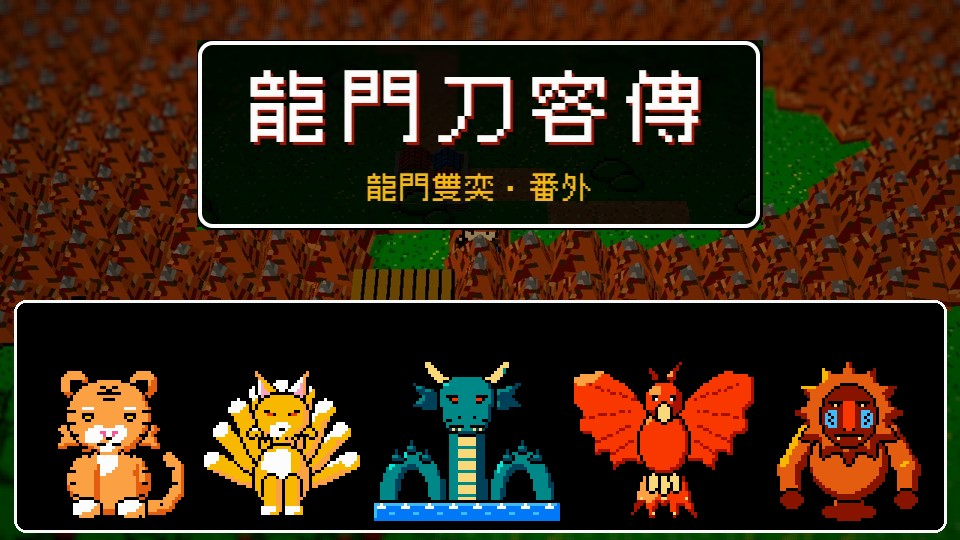
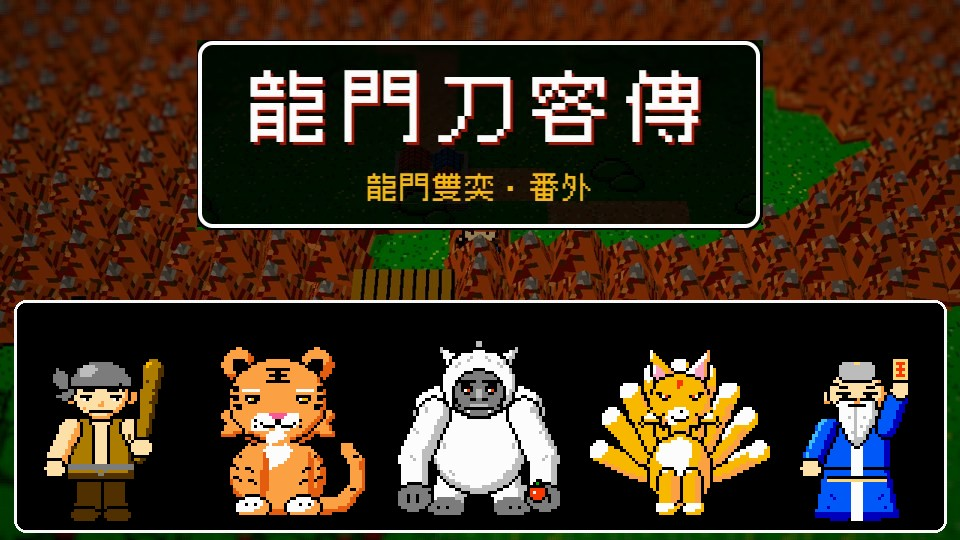
Refined foes and beasts, pixel exact battle scaling, new thumb

Changed region(s): [[0.0312, 0.6222, 0.9688, 0.9778]]

diff --git a/js/enemy_art.js b/js/enemy_art.js
@@ -1,66 +1,66 @@
 // generated by tools/gallery.py from the Character Gallery - rects into assets/enemies.png (1x pixels).
 // f = the two field frames (frame 2 is w pixels right of frame 1).
 export const ENEMY_ART = {
-  bx_ape: { x: 0, y: 0, w: 56, h: 56, f: [57, 0, 16, 16] },
-  bx_tiger: { x: 90, y: 0, w: 56, h: 56, f: [147, 0, 16, 16] },
-  bx_lion: { x: 180, y: 0, w: 56, h: 56, f: [237, 0, 16, 16] },
-  bx_jiangshi: { x: 270, y: 0, w: 56, h: 56, f: [327, 0, 16, 24] },
-  bx_shanxiao: { x: 360, y: 0, w: 56, h: 56, f: [417, 0, 16, 16] },
-  bx_fox: { x: 450, y: 0, w: 56, h: 56, f: [0, 57, 16, 16] },
-  bx_jiao: { x: 33, y: 57, w: 64, h: 56, f: [98, 57, 16, 16] },
-  bx_crow: { x: 131, y: 57, w: 64, h: 56, f: [196, 57, 16, 16] },
-  bx_toad: { x: 229, y: 57, w: 64, h: 48, f: [294, 57, 16, 16] },
-  e_greywolf: { x: 327, y: 57, w: 48, h: 40, f: [376, 57, 16, 16] },
-  e_wildboar: { x: 409, y: 57, w: 48, h: 40, f: [458, 57, 16, 16] },
-  e_bambooviper: { x: 0, y: 114, w: 44, h: 44, f: [45, 114, 16, 16] },
-  e_cavebat: { x: 78, y: 114, w: 48, h: 40, f: [127, 114, 16, 16] },
-  e_rivercrab: { x: 160, y: 114, w: 48, h: 40, f: [209, 114, 16, 16] },
-  e_mountainmonkey: { x: 242, y: 114, w: 40, h: 44, f: [283, 114, 16, 16] },
-  e_wisp: { x: 316, y: 114, w: 40, h: 40, f: [357, 114, 16, 16] },
-  e_dummy: { x: 390, y: 114, w: 40, h: 48, f: [431, 114, 16, 16] },
-  e_lackey: { x: 464, y: 114, w: 40, h: 48, f: [0, 163, 16, 16] },
-  e_redsnake: { x: 33, y: 163, w: 44, h: 44, f: [78, 163, 16, 16] },
-  e_tigerhornet: { x: 111, y: 163, w: 44, h: 40, f: [156, 163, 16, 16] },
-  e_centipede: { x: 189, y: 163, w: 44, h: 44, f: [234, 163, 16, 16] },
-  e_sandscorpion: { x: 267, y: 163, w: 48, h: 40, f: [316, 163, 16, 16] },
-  e_treesprite: { x: 349, y: 163, w: 40, h: 48, f: [390, 163, 16, 16] },
-  e_toadstool: { x: 423, y: 163, w: 40, h: 44, f: [464, 163, 16, 16] },
-  e_littlejiangshi: { x: 0, y: 212, w: 40, h: 48, f: [41, 212, 16, 16] },
-  e_windsprite: { x: 74, y: 212, w: 40, h: 40, f: [115, 212, 16, 16] },
-  e_stonetoad: { x: 148, y: 212, w: 48, h: 40, f: [197, 212, 16, 16] },
-  e_cudgeler: { x: 230, y: 212, w: 40, h: 48, f: [271, 212, 16, 16] },
-  e_archer: { x: 304, y: 212, w: 40, h: 48, f: [345, 212, 16, 16] },
-  e_roguemonk: { x: 378, y: 212, w: 40, h: 48, f: [419, 212, 16, 16] },
-  e_bloodwolf: { x: 452, y: 212, w: 48, h: 40, f: [0, 261, 16, 16] },
-  e_ironboar: { x: 33, y: 261, w: 48, h: 40, f: [82, 261, 16, 16] },
-  e_bloodbat: { x: 115, y: 261, w: 48, h: 40, f: [164, 261, 16, 16] },
-  e_goldmonkey: { x: 197, y: 261, w: 40, h: 44, f: [238, 261, 16, 16] },
-  e_papereffigy: { x: 271, y: 261, w: 40, h: 48, f: [312, 261, 16, 16] },
-  e_inkspirit: { x: 345, y: 261, w: 40, h: 40, f: [386, 261, 16, 16] },
-  e_skeleton: { x: 419, y: 261, w: 40, h: 48, f: [460, 261, 16, 16] },
-  e_drowned: { x: 0, y: 310, w: 40, h: 48, f: [41, 310, 16, 16] },
-  e_bronzeman: { x: 74, y: 310, w: 40, h: 48, f: [115, 310, 16, 16] },
-  e_assassin: { x: 148, y: 310, w: 40, h: 48, f: [189, 310, 16, 16] },
-  e_daoist: { x: 222, y: 310, w: 40, h: 48, f: [263, 310, 16, 16] },
-  e_ironcrab: { x: 296, y: 310, w: 48, h: 40, f: [345, 310, 16, 16] },
-  e_ghosthornet: { x: 378, y: 310, w: 44, h: 40, f: [423, 310, 16, 16] },
-  e_goldcentipede: { x: 456, y: 310, w: 44, h: 44, f: [0, 359, 16, 16] },
-  e_netherflame: { x: 33, y: 359, w: 40, h: 40, f: [74, 359, 16, 16] },
-  e_deadwood: { x: 107, y: 359, w: 40, h: 48, f: [148, 359, 16, 16] },
-  e_thundersprite: { x: 181, y: 359, w: 40, h: 40, f: [222, 359, 16, 16] },
-  e_irondummy: { x: 255, y: 359, w: 40, h: 48, f: [296, 359, 16, 16] },
-  e_bloodthug: { x: 329, y: 359, w: 40, h: 48, f: [370, 359, 16, 16] },
-  e_ironmonk: { x: 403, y: 359, w: 40, h: 48, f: [444, 359, 16, 16] },
-  e_frostwolf: { x: 0, y: 408, w: 48, h: 40, f: [49, 408, 16, 16] },
-  e_inkscorpion: { x: 82, y: 408, w: 48, h: 40, f: [131, 408, 16, 16] },
-  e_blackbone: { x: 164, y: 408, w: 40, h: 48, f: [205, 408, 16, 16] },
-  e_coldpool: { x: 238, y: 408, w: 40, h: 48, f: [279, 408, 16, 16] },
-  e_bronzejiangshi: { x: 312, y: 408, w: 40, h: 48, f: [353, 408, 16, 16] },
-  e_vajraguardian: { x: 386, y: 408, w: 40, h: 48, f: [427, 408, 16, 16] },
-  e_netherarcher: { x: 460, y: 408, w: 40, h: 48, f: [0, 457, 16, 16] },
-  e_netherassassin: { x: 33, y: 457, w: 40, h: 48, f: [74, 457, 16, 16] },
-  e_blackdaoist: { x: 107, y: 457, w: 40, h: 48, f: [148, 457, 16, 16] },
-  b_luohan: { x: 181, y: 457, w: 32, h: 48 },
+  bx_ape: { x: 0, y: 0, w: 64, h: 64, f: [65, 0, 16, 16] },
+  bx_tiger: { x: 98, y: 0, w: 64, h: 64, f: [163, 0, 16, 16] },
+  bx_lion: { x: 196, y: 0, w: 64, h: 64, f: [261, 0, 16, 16] },
+  bx_jiangshi: { x: 294, y: 0, w: 64, h: 64, f: [359, 0, 16, 24] },
+  bx_shanxiao: { x: 392, y: 0, w: 64, h: 64, f: [457, 0, 16, 16] },
+  bx_fox: { x: 0, y: 65, w: 64, h: 64, f: [65, 65, 16, 16] },
+  bx_jiao: { x: 98, y: 65, w: 64, h: 56, f: [163, 65, 16, 16] },
+  bx_crow: { x: 196, y: 65, w: 64, h: 56, f: [261, 65, 16, 16] },
+  bx_toad: { x: 294, y: 65, w: 64, h: 56, f: [359, 65, 16, 16] },
+  e_greywolf: { x: 392, y: 65, w: 48, h: 48, f: [441, 65, 16, 16] },
+  e_wildboar: { x: 0, y: 130, w: 48, h: 48, f: [49, 130, 16, 16] },
+  e_bambooviper: { x: 82, y: 130, w: 48, h: 48, f: [131, 130, 16, 16] },
+  e_cavebat: { x: 164, y: 130, w: 48, h: 48, f: [213, 130, 16, 16] },
+  e_rivercrab: { x: 246, y: 130, w: 48, h: 48, f: [295, 130, 16, 16] },
+  e_mountainmonkey: { x: 328, y: 130, w: 48, h: 48, f: [377, 130, 16, 16] },
+  e_wisp: { x: 410, y: 130, w: 48, h: 48, f: [459, 130, 16, 16] },
+  e_dummy: { x: 0, y: 179, w: 48, h: 56, f: [49, 179, 16, 16] },
+  e_lackey: { x: 82, y: 179, w: 48, h: 56, f: [131, 179, 16, 16] },
+  e_redsnake: { x: 164, y: 179, w: 48, h: 48, f: [213, 179, 16, 16] },
+  e_tigerhornet: { x: 246, y: 179, w: 48, h: 48, f: [295, 179, 16, 16] },
+  e_centipede: { x: 328, y: 179, w: 48, h: 48, f: [377, 179, 16, 16] },
+  e_sandscorpion: { x: 410, y: 179, w: 48, h: 48, f: [459, 179, 16, 16] },
+  e_treesprite: { x: 0, y: 236, w: 48, h: 56, f: [49, 236, 16, 16] },
+  e_toadstool: { x: 82, y: 236, w: 48, h: 48, f: [131, 236, 16, 16] },
+  e_littlejiangshi: { x: 164, y: 236, w: 48, h: 56, f: [213, 236, 16, 16] },
+  e_windsprite: { x: 246, y: 236, w: 48, h: 48, f: [295, 236, 16, 16] },
+  e_stonetoad: { x: 328, y: 236, w: 48, h: 48, f: [377, 236, 16, 16] },
+  e_cudgeler: { x: 410, y: 236, w: 48, h: 56, f: [459, 236, 16, 16] },
+  e_archer: { x: 0, y: 293, w: 48, h: 56, f: [49, 293, 16, 16] },
+  e_roguemonk: { x: 82, y: 293, w: 48, h: 56, f: [131, 293, 16, 16] },
+  e_bloodwolf: { x: 164, y: 293, w: 48, h: 48, f: [213, 293, 16, 16] },
+  e_ironboar: { x: 246, y: 293, w: 48, h: 48, f: [295, 293, 16, 16] },
+  e_bloodbat: { x: 328, y: 293, w: 48, h: 48, f: [377, 293, 16, 16] },
+  e_goldmonkey: { x: 410, y: 293, w: 48, h: 48, f: [459, 293, 16, 16] },
+  e_papereffigy: { x: 0, y: 350, w: 48, h: 56, f: [49, 350, 16, 16] },
+  e_inkspirit: { x: 82, y: 350, w: 48, h: 48, f: [131, 350, 16, 16] },
+  e_skeleton: { x: 164, y: 350, w: 48, h: 56, f: [213, 350, 16, 16] },
+  e_drowned: { x: 246, y: 350, w: 48, h: 56, f: [295, 350, 16, 16] },
+  e_bronzeman: { x: 328, y: 350, w: 48, h: 56, f: [377, 350, 16, 16] },
+  e_assassin: { x: 410, y: 350, w: 48, h: 56, f: [459, 350, 16, 16] },
+  e_daoist: { x: 0, y: 407, w: 48, h: 56, f: [49, 407, 16, 16] },
+  e_ironcrab: { x: 82, y: 407, w: 48, h: 48, f: [131, 407, 16, 16] },
+  e_ghosthornet: { x: 164, y: 407, w: 48, h: 48, f: [213, 407, 16, 16] },
+  e_goldcentipede: { x: 246, y: 407, w: 48, h: 48, f: [295, 407, 16, 16] },
+  e_netherflame: { x: 328, y: 407, w: 48, h: 48, f: [377, 407, 16, 16] },
+  e_deadwood: { x: 410, y: 407, w: 48, h: 56, f: [459, 407, 16, 16] },
+  e_thundersprite: { x: 0, y: 464, w: 48, h: 48, f: [49, 464, 16, 16] },
+  e_irondummy: { x: 82, y: 464, w: 48, h: 56, f: [131, 464, 16, 16] },
+  e_bloodthug: { x: 164, y: 464, w: 48, h: 56, f: [213, 464, 16, 16] },
+  e_ironmonk: { x: 246, y: 464, w: 48, h: 56, f: [295, 464, 16, 16] },
+  e_frostwolf: { x: 328, y: 464, w: 48, h: 48, f: [377, 464, 16, 16] },
+  e_inkscorpion: { x: 410, y: 464, w: 48, h: 48, f: [459, 464, 16, 16] },
+  e_blackbone: { x: 0, y: 521, w: 48, h: 56, f: [49, 521, 16, 16] },
+  e_coldpool: { x: 82, y: 521, w: 48, h: 56, f: [131, 521, 16, 16] },
+  e_bronzejiangshi: { x: 164, y: 521, w: 48, h: 56, f: [213, 521, 16, 16] },
+  e_vajraguardian: { x: 246, y: 521, w: 48, h: 56, f: [295, 521, 16, 16] },
+  e_netherarcher: { x: 328, y: 521, w: 48, h: 56, f: [377, 521, 16, 16] },
+  e_netherassassin: { x: 410, y: 521, w: 48, h: 56, f: [459, 521, 16, 16] },
+  e_blackdaoist: { x: 0, y: 578, w: 48, h: 56, f: [49, 578, 16, 16] },
+  b_luohan: { x: 82, y: 578, w: 32, h: 48 },
 };
 // names, bios and habitats from C:\CharacterGallery\chars\index.json (shown in the bestiary)
 export const ENEMY_INFO = {

diff --git a/js/battle.js b/js/battle.js
@@ -1,16 +1,16 @@
 // Front-view one-on-one battles in pure 8-bit style. Rounds: the hero picks a command, then hero and foe act in
 // order of agility (with a little luck). Everything the foe does goes through the same rules as the hero.
-import { ENEMIES, SKILLS, ITEMS, ART_OF } from './data.js?v=5';
-import { ENEMY_ART } from './enemy_art.js?v=5';
-import { CAST } from './people_art.js?v=5';
-import * as R from './rules.js?v=5';
-import { t, STR } from './ui.js?v=5';
-import { hex } from './tiles.js?v=5';
+import { ENEMIES, SKILLS, ITEMS, ART_OF } from './data.js?v=6';
+import { ENEMY_ART } from './enemy_art.js?v=6';
+import { CAST } from './people_art.js?v=6';
+import * as R from './rules.js?v=6';
+import { t, STR } from './ui.js?v=6';
+import { hex } from './tiles.js?v=6';
 
 const sleep = (ms) => new Promise((r) => setTimeout(r, ms));
 const imgs = {};
 function img(src) { if (!imgs[src]) { imgs[src] = new Image(); imgs[src].src = src; } return imgs[src]; }
-export function preloadBattleArt() { img('assets/enemies.png?v=5'); for (const c of Object.values(CAST)) img(c.portrait); }
+export function preloadBattleArt() { img('assets/enemies.png?v=6'); for (const c of Object.values(CAST)) img(c.portrait); }
 
 const SCENES = {   // backdrop strip colours (NES indexes): sky, far, near
   grass: [0x21, 0x1A, 0x0A], forest: [0x0A, 0x0B, 0x1A], hill: [0x21, 0x19, 0x09], sand: [0x31, 0x27, 0x17], swamp: [0x0C, 0x0B, 0x04],
@@ -30,7 +30,7 @@ export async function battle(G, foeId, opts = {}) {
   // ---------------------------------------------------------------- the screen
   const root = document.getElementById('battle'); root.innerHTML = ''; root.classList.remove('hidden');
   const el = (tag, cls, p = root) => { const e = document.createElement(tag); e.className = cls; p.appendChild(e); return e; };
-  const stage = el('div', 'win bstage'); const cv = el('canvas', 'bcanvas', stage); cv.width = 160; cv.height = 120; const cx = cv.getContext('2d'); cx.imageSmoothingEnabled = false;
+  const stage = el('div', 'win bstage'); const cv = el('canvas', 'bcanvas', stage); cv.width = 480; cv.height = 360; const cx = cv.getContext('2d'); cx.setTransform(3, 0, 0, 3, 0, 0); cx.imageSmoothingEnabled = false;   // drawn at 160x120, stored at 3x so pictures can use whole device pixels
   const stat = el('div', 'win bstat'); const log = el('div', 'win blog'); const lines = [];
   const drawStat = () => { const s = R.stat(h); stat.innerHTML = `<div class="bname">${t(['奕叡', 'Yi Rui'])}${h.poison ? ' <span class="psn">' + t(['毒', 'PSN']) + '</span>' : ''}</div><div>${t('lv')} ${h.lv}</div><div class="${h.hp <= s.maxHp / 4 ? 'low' : ''}">${t('hp')} ${h.hp}/${s.maxHp}</div><div>${t('mp')} ${h.mp}/${s.maxMp}</div>`; stat.classList.toggle('danger', h.hp <= s.maxHp / 4); };
   const say = async (zh, en, ms = 420) => { if (G.ui.driver && G.ui.driver.onLog) G.ui.driver.onLog(zh); lines.push(t([zh, en])); while (lines.length > 4) lines.shift(); log.innerHTML = lines.map((l) => `<div>${l}</div>`).join(''); await wait(ms); };
@@ -40,8 +40,10 @@ export async function battle(G, foeId, opts = {}) {
   const scene = SCENES[opts.scene] || SCENES.grass;
   let art = null, src = null;
   if (E.por) { src = img(CAST[E.por].portrait); art = { x: 0, y: 0, w: 48, h: 56, por: 1 }; }
-  else { src = img('assets/enemies.png?v=5'); art = ENEMY_ART[ART_OF(foeId)]; }
-  const scale = art.por ? 2 : (E.big ? 2.4 : 2);
+  else { src = img('assets/enemies.png?v=6'); art = ENEMY_ART[ART_OF(foeId)]; }
+  // whole device pixels per art pixel (k/3 on the 160x120 stage); bigger pictures step down so they always fit
+  const k = art.por ? 6 : Math.max(3, Math.min(E.big ? 7 : 6, Math.floor(348 / art.h), Math.floor(468 / art.w)));
+  const scale = k / 3;
   const fx = { flash: 0, shake: 0, alpha: 1, dissolve: 0, parts: [], slash: 0, heal: 0 };
   let alive = true, raf = 0, last = performance.now();
   function draw(now) {
@@ -53,15 +55,15 @@ export async function battle(G, foeId, opts = {}) {
     cx.fillStyle = hex(scene[2]); for (let x = 0; x < 160; x += 2) { const y = 20 + Math.round(Math.sin(x * 0.11 + 1) * 2); cx.fillRect(x, y, 2, 26 - y); }
     cx.fillStyle = '#000'; cx.fillRect(0, 26, 160, 2);
     if (src && src.complete && art && fx.alpha > 0) {
-      const w = Math.round(art.w * scale), hh = Math.round(art.h * scale);
-      const ox = Math.round(80 - w / 2 + (fx.shake > 0 ? (Math.random() * 6 - 3) : 0)), oy = Math.round(118 - hh);
+      const w = art.w * scale, hh = art.h * scale;
+      const ox = Math.round((80 - w / 2 + (fx.shake > 0 ? (Math.random() * 6 - 3) : 0)) * 3) / 3, oy = Math.round((118 - hh) * 3) / 3;
       const vis = fx.flash > 0 ? (Math.floor(fx.flash * 20) % 2 === 0) : true;
       if (vis) {
         cx.save(); cx.globalAlpha = fx.alpha;
         if (art.por) { cx.drawImage(src, 0, 0, 48, 56, ox, oy, w, hh); }
         else {
           const cut = Math.floor(art.h * (1 - fx.dissolve));
-          if (cut > 0) cx.drawImage(src, art.x, art.y, art.w, cut, ox, oy, w, Math.round(cut * scale));
+          if (cut > 0) cx.drawImage(src, art.x, art.y, art.w, cut, ox, oy, w, cut * scale);
         }
         cx.restore();
       }

diff --git a/js/main.js b/js/main.js
@@ -1,12 +1,12 @@
 // Boot: build the view, the title screen, the opening, and run the fixed-timestep loop.
-import { View, pickQuality, loadImage, registerSheet } from './view.js?v=5';
-import { Input } from './input.js?v=5';
-import { UI, t, STR, getLang, setLang } from './ui.js?v=5';
-import { Audio } from './audio.js?v=5';
-import { Game, mapName } from './game.js?v=5';
-import { CAST, PEOPLE_IMAGE } from './people_art.js?v=5';
-import { preloadBattleArt } from './battle.js?v=5';
-import { PLACE_AT } from './world_map.js?v=5';
+import { View, pickQuality, loadImage, registerSheet } from './view.js?v=6';
+import { Input } from './input.js?v=6';
+import { UI, t, STR, getLang, setLang } from './ui.js?v=6';
+import { Audio } from './audio.js?v=6';
+import { Game, mapName } from './game.js?v=6';
+import { CAST, PEOPLE_IMAGE } from './people_art.js?v=6';
+import { preloadBattleArt } from './battle.js?v=6';
+import { PLACE_AT } from './world_map.js?v=6';
 
 const params = new URLSearchParams(location.search);
 const NORENDER = params.has('norender');
@@ -51,7 +51,7 @@ input.push((k) => {
 });
 
 async function loadArt() {
-  const jobs = [loadImage(PEOPLE_IMAGE).then((i) => registerSheet('npcs', i)), loadImage('assets/enemies.png').then((i) => registerSheet('enemies', i))];
+  const jobs = [loadImage(PEOPLE_IMAGE).then((i) => registerSheet('npcs', i)), loadImage('assets/enemies.png?v=6').then((i) => registerSheet('enemies', i))];
   for (const [id, c] of Object.entries(CAST)) jobs.push(loadImage(c.sheet).then((i) => registerSheet('cast_' + id, i)));
   await Promise.all(jobs); preloadBattleArt();
 }
@@ -79,7 +79,7 @@ function titlePan(dt) { panT += dt; view.frame(dt, { x: 26 + Math.sin(panT * 0.0
 // ---------------------------------------------------------------- title
 async function title() {
   G.mode = 'title';
-  if (view) { const pl = {}; const { PLACES } = await import('./maps.js?v=5'); for (const [k, [x, y]] of Object.entries(PLACE_AT)) pl[k] = [x, y, PLACES[k].look]; const { WORLD } = await import('./world_map.js?v=5'); view.buildWorld(WORLD, pl, {}); view.camReady = false; }
+  if (view) { const pl = {}; const { PLACES } = await import('./maps.js?v=6'); for (const [k, [x, y]] of Object.entries(PLACE_AT)) pl[k] = [x, y, PLACES[k].look]; const { WORLD } = await import('./world_map.js?v=6'); view.buildWorld(WORLD, pl, {}); view.camReady = false; }
   const tl = document.getElementById('title'); tl.classList.remove('hidden');
   audio.play('title');
   for (;;) {

diff --git a/js/game.js b/js/game.js
@@ -1,13 +1,13 @@
 // The game: where the hero is, walking on tile maps, people and their scripts, chests, doors, encounters, menus,
 // inns, shops, saving and the story's turning points. The view only draws what this holds.
-import { MAPS, PLACES, TILES, L } from './maps.js?v=5';
-import { WORLD, WORLD_W, WORLD_H, PLACE_AT } from './world_map.js?v=5';
-import { ITEMS, SKILLS, SHOPS, ENEMIES, ZONES, zoneAt, ENCOUNTER, RARE, RARE_CHANCE, MONEY_FOE, ART_OF } from './data.js?v=5';
-import { PEOPLE, CAST } from './people_art.js?v=5';
-import { ENEMY_ART, ENEMY_INFO } from './enemy_art.js?v=5';
-import * as R from './rules.js?v=5';
-import { battle } from './battle.js?v=5';
-import { t, STR, getLang, setLang, nameOf } from './ui.js?v=5';
+import { MAPS, PLACES, TILES, L } from './maps.js?v=6';
+import { WORLD, WORLD_W, WORLD_H, PLACE_AT } from './world_map.js?v=6';
+import { ITEMS, SKILLS, SHOPS, ENEMIES, ZONES, zoneAt, ENCOUNTER, RARE, RARE_CHANCE, MONEY_FOE, ART_OF } from './data.js?v=6';
+import { PEOPLE, CAST } from './people_art.js?v=6';
+import { ENEMY_ART, ENEMY_INFO } from './enemy_art.js?v=6';
+import * as R from './rules.js?v=6';
+import { battle } from './battle.js?v=6';
+import { t, STR, getLang, setLang, nameOf } from './ui.js?v=6';
 
 const DIRS = { up: [0, -1], down: [0, 1], left: [-1, 0], right: [1, 0] };
 const SAVE_KEYS = ['lq_slot1', 'lq_slot2', 'lq_slot3'];

diff --git a/style.css b/style.css
@@ -54,9 +54,9 @@ body { font-family: 'Cubic11', 'PingFang TC', 'Microsoft JhengHei', monospace; f
 .booklist .mlist { position: relative; overflow-y: auto; min-height: 0; scrollbar-width: none; }
 .booklist .mlist::-webkit-scrollbar { display: none; }
 .bookwin { left: 4%; top: 5%; bottom: 3%; width: 50%; z-index: 9; display: flex; flex-direction: column; gap: 0.4em; overflow: hidden; }
-.bkpic { flex: none; height: calc(60px * var(--pz)); display: flex; align-items: flex-end; justify-content: center; }
+.bkpic { flex: none; height: calc(64px * var(--pz)); display: flex; align-items: flex-end; justify-content: center; }
 .bkpic img { width: calc(48px * var(--pz)); height: calc(56px * var(--pz)); image-rendering: pixelated; }
-.bkspr { flex: none; background-image: url(assets/enemies.png); image-rendering: pixelated; transform: scale(var(--pz)); transform-origin: 50% 100%; }
+.bkspr { flex: none; background-image: url(assets/enemies.png?v=6); image-rendering: pixelated; transform: scale(var(--pz)); transform-origin: 50% 100%; }
 .bkname { color: var(--gold); }
 .bkmeta { color: #bcbcbc; font-size: 0.85em; }
 .bkbio { margin: 0.2em 0; font-size: 0.9em; }

diff --git a/js/view.js b/js/view.js
@@ -6,8 +6,8 @@ import { RenderPass } from '../lib/addons/RenderPass.js';
 import { UnrealBloomPass } from '../lib/addons/UnrealBloomPass.js';
 import { OutputPass } from '../lib/addons/OutputPass.js';
 import { ShaderPass } from '../lib/addons/ShaderPass.js';
-import { tex, spr } from './tiles.js?v=5';
-import { TILES } from './maps.js?v=5';
+import { tex, spr } from './tiles.js?v=6';
+import { TILES } from './maps.js?v=6';
 
 const TiltShift = {
   uniforms: { tDiffuse: { value: null }, res: { value: new THREE.Vector2(1, 1) }, dir: { value: new THREE.Vector2(1, 0) }, focus: { value: 0.5 }, band: { value: 0.18 }, amount: { value: 2.2 } },

diff --git a/index.html b/index.html
@@ -12,7 +12,7 @@
 <link rel="apple-touch-icon" href="apple-touch-icon.png">
 <link rel="icon" href="icon-192.png">
 <link rel="manifest" href="manifest.webmanifest">
-<link rel="stylesheet" href="style.css?v=5">
+<link rel="stylesheet" href="style.css?v=6">
 <script type="importmap">{ "imports": { "three": "./lib/three.module.min.js" } }</script>
 </head>
 <body>
@@ -32,6 +32,6 @@
   <div id="btns" class="padpart"><div id="btnB">B</div><div id="btnA">A</div></div>
 </div>
 <div id="pad" hidden></div>
-<script type="module" src="js/main.js?v=5"></script>
+<script type="module" src="js/main.js?v=6"></script>
 </body>
 </html>

diff --git a/js/ui.js b/js/ui.js
@@ -1,6 +1,6 @@
 // 8-bit windows: black boxes with white rounded borders and the Cubic 11 pixel font. Messages type out, menus
 // move a ▶ cursor. Every prompt returns a promise. A test driver (UI.driver) may answer prompts instead of a person.
-import { CAST } from './people_art.js?v=5';
+import { CAST } from './people_art.js?v=6';
 
 export const STR = {
   attack: ['攻擊', 'Attack'], skill: ['武功', 'Arts'], item: ['道具', 'Items'], run: ['逃走', 'Run'],

diff --git a/js/rules.js b/js/rules.js
@@ -1,5 +1,5 @@
 // The one set of rules the hero and every enemy share: stats, damage, skills, items, levels.
-import { LEVELS, MAX_LV, XP_FOR, SKILLS, LEARN_ORDER, ITEMS, BAG_MAX } from './data.js?v=5';
+import { LEVELS, MAX_LV, XP_FOR, SKILLS, LEARN_ORDER, ITEMS, BAG_MAX } from './data.js?v=6';
 
 export const rand = (a, b) => a + Math.floor(Math.random() * (b - a + 1));
 
